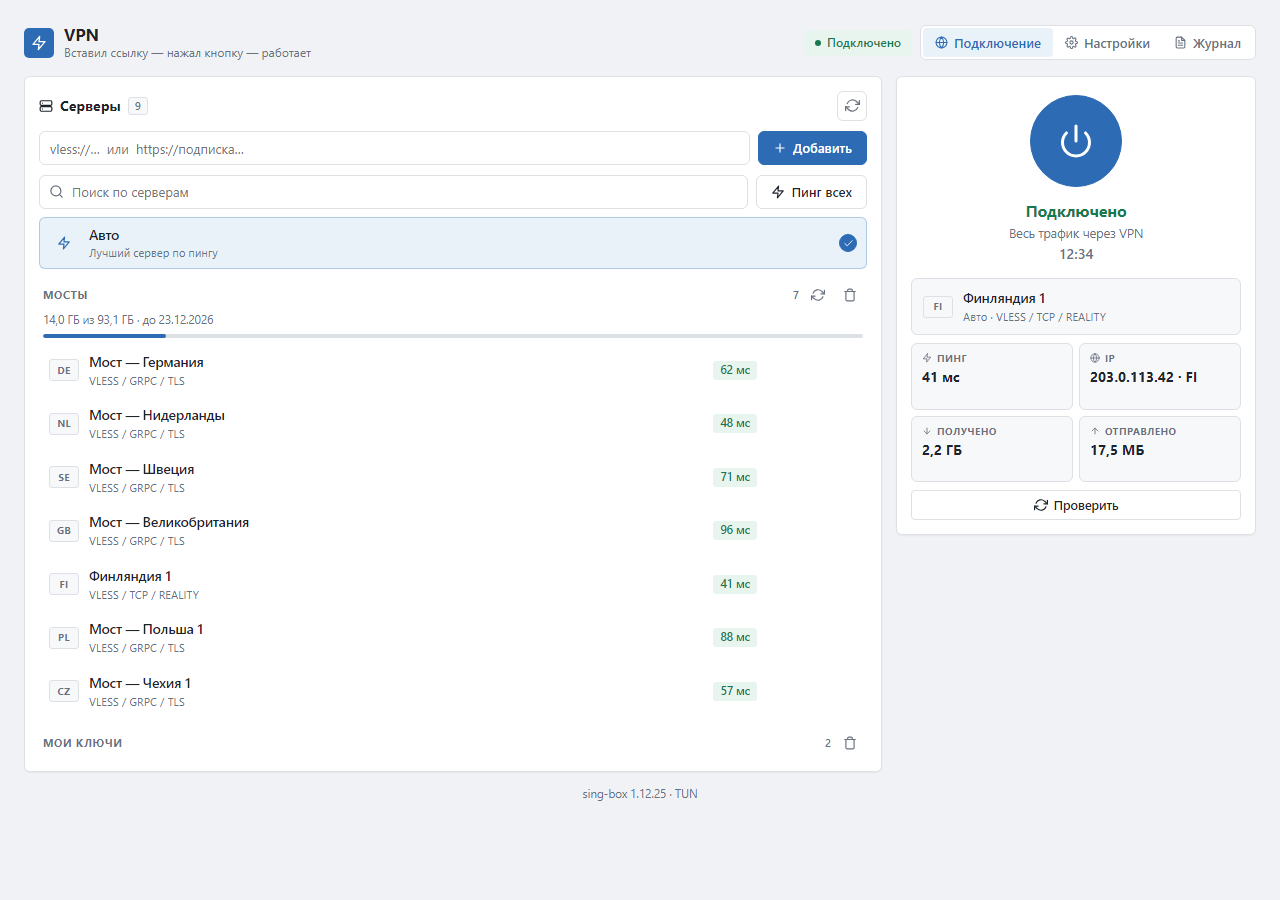
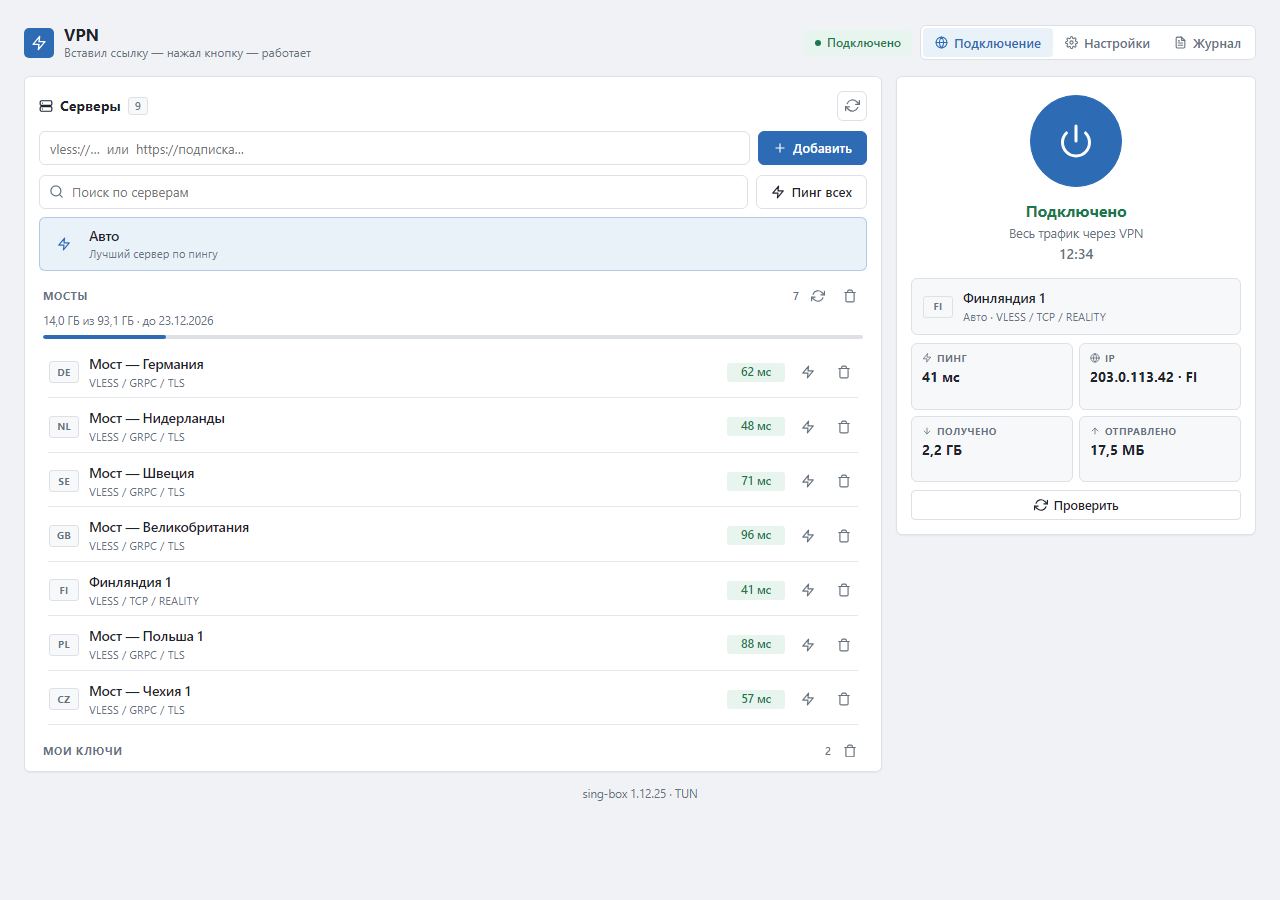
Версия 1.3.2
Переключение: дождаться освобождения vless0 перед стартом (кнопка не требует повторного нажатия). «Пинг всех»: замер по /proxies/s-<id>/delay, т.к. /group/auto/delay в sing-box 1.12+ не существует. Журнал прошлого сеанса отделён; шум штатного отключения не показывается как ошибка. Тест: мок api с правами на исполнение.

diff --git a/htdocs/luci-static/resources/view/vless/main.js b/htdocs/luci-static/resources/view/vless/main.js
@@ -133,23 +133,26 @@ var CSS = [
 '.hv-bar span{display:block;height:100%;background:var(--ac);border-radius:4px;transition:width .4s}',
 '.hv-bar.warn span{background:var(--warn)}.hv-bar.crit span{background:var(--bad)}',
 '.hv-bar.inf span{width:100%;background:var(--line)}',
-'.hv-row{display:flex;align-items:center;gap:10px;padding:7px 9px;border-radius:var(--r);cursor:pointer;border:1px solid transparent;transition:background .1s,border-color .1s;margin-bottom:1px;min-width:0;position:relative}',
+'.hv-row{display:flex;align-items:center;gap:10px;padding:8px 9px;border-radius:var(--r);cursor:pointer;border:1px solid transparent;transition:background .1s,border-color .1s;min-width:0;position:relative}',
+'.hv-row:after{content:"";position:absolute;left:8px;right:8px;bottom:0;height:1px;background:var(--line);opacity:.8;pointer-events:none}',
 '.hv-row:hover{background:var(--card2)}',
 '.hv-row.sel{background:var(--acs);border-color:rgba(45,108,181,.3)}',
+'.hv-row.sel:after,.hv-row.off:after{opacity:0}',
 '.hv-row.off{opacity:.5;cursor:not-allowed}',
 '.hv-fl{width:30px;height:22px;border-radius:3px;flex:none;display:flex;align-items:center;justify-content:center;font-size:10px;font-weight:700;letter-spacing:.03em;background:var(--card2);color:var(--tx2);border:1px solid var(--line)}',
 '.hv-fl.auto{background:var(--acs);color:var(--ac);border-color:transparent;font-size:14px}',
 '.hv-nm{flex:1;min-width:0;overflow:hidden}',
 '.hv-nm b{display:block;font-size:13.5px;font-weight:550;overflow:hidden;text-overflow:ellipsis;white-space:nowrap}',
 '.hv-nm span{display:block;font-size:11px;color:var(--tx2);letter-spacing:.01em;overflow:hidden;text-overflow:ellipsis;white-space:nowrap;margin-top:1px}',
-'.hv-ms{font-size:11.5px;font-weight:600;padding:1px 7px;border-radius:3px;background:var(--card2);color:var(--tx2);flex:none;font-variant-numeric:tabular-nums}',
+/* Значение пинга занимает фиксированную ширину всегда — иначе цифры «приезжают»
+   не с начала строки, а с середины, когда у части серверов замер ещё не готов. */
+'.hv-ms{font-size:11.5px;font-weight:600;padding:1px 7px;border-radius:3px;background:var(--card2);color:var(--tx2);flex:none;font-variant-numeric:tabular-nums;min-width:58px;height:19px;display:flex;align-items:center;justify-content:center}',
 '.hv-ms.g{color:var(--ok);background:var(--oks)}.hv-ms.y{color:var(--warn);background:var(--warns)}.hv-ms.r{color:var(--bad);background:var(--bads)}',
-'.hv-ck{width:18px;height:18px;border-radius:50%;border:1.5px solid transparent;flex:none;display:flex;align-items:center;justify-content:center;color:#fff;font-size:11px;transition:.1s}',
-'.hv-row.sel .hv-ck{background:var(--ac);border-color:var(--ac)}',
-'.hv-row:hover .hv-ck{border-color:var(--line)}',
-'.hv-x{opacity:0;transition:.1s;flex:none}',
-'.hv-row:hover .hv-x,.hv-row:focus-within .hv-x{opacity:1}',
-'@media(hover:none){.hv-x{opacity:1}}',
+'.hv-ms.none{background:none}',
+'.hv-ms.wait{background:none;position:relative;color:transparent}',
+'.hv-ms.wait:after{content:"";position:absolute;left:50%;top:50%;width:11px;height:11px;margin:-5.5px 0 0 -5.5px;border:1.5px solid var(--line);border-top-color:var(--ac);border-radius:50%;animation:hvspin .7s linear infinite}',
+/* Кнопки пинга и удаления видны всегда: наводить мышь ради второго действия не нужно */
+'.hv-x{flex:none}',
 '.hv-empty{text-align:center;padding:26px 10px;color:var(--tx2);font-size:13px}',
 '.hv-hero{text-align:center;padding:22px 10px 10px}',
 '.hv-hero>i{width:40px;height:40px;border-radius:var(--r);background:var(--card2);color:var(--tx2);font-size:20px;margin:0 auto 10px;border:1px solid var(--line)}',
@@ -488,6 +491,8 @@ return view.extend({
 		this.check = null;
 		this.search = '';
 		this.pinged = false;
+		this.pinging = false;   /* идёт «Пинг всех» — показываем крутилки у серверов */
+		this.pingOne = null;    /* id одиночного замера */
 		this.rate = { down: 0, up: 0 };
 		this._prev = null;
 		this._upSince = 0;
@@ -734,7 +739,8 @@ return view.extend({
 				list.appendChild(self.rowEl({
 					id: s.id, flagCode: g.f.code, name: g.f.name,
 					sub: s.supported ? self.metaOf(s) : (s.reason || 'не поддерживается'),
-					ms: (S.delays || {})[s.id], sel: selected === s.id, ok: s.supported, removable: true
+					ms: (S.delays || {})[s.id], sel: selected === s.id, ok: s.supported, removable: true,
+					wait: s.supported && (self.pinging || self.pingOne === s.id)
 				}));
 			});
 		});
@@ -778,7 +784,18 @@ return view.extend({
 			o.auto ? flagEl('', true) : flagEl(o.flagCode),
 			E('div', { 'class': 'hv-nm' }, [E('b', { title: o.name }, o.name), E('span', {}, o.sub)])
 		]);
-		if (typeof o.ms === 'number') row.appendChild(E('div', { 'class': 'hv-ms ' + msClass(o.ms) }, o.ms + ' мс'));
+		/* Пинг: крутилка, значение или пустое место той же ширины.
+		   Проверяем «измеряем» первым, чтобы при повторном замере показывалась
+		   анимация, а не устаревшее число. Кружок с галочкой убран — выбранный
+		   сервер и так выделяется синим. */
+		if (!o.auto) {
+			if (o.wait)
+				row.appendChild(E('div', { 'class': 'hv-ms wait', role: 'progressbar', 'aria-label': 'Измеряем задержку' }));
+			else if (typeof o.ms === 'number')
+				row.appendChild(E('div', { 'class': 'hv-ms ' + msClass(o.ms), title: 'Задержка до сервера' }, o.ms + ' мс'));
+			else
+				row.appendChild(E('div', { 'class': 'hv-ms none' }));
+		}
 		if (o.ok && !o.auto)
 			row.appendChild(E('button', {
 				type: 'button', 'class': 'hv-ibtn sm flat hv-x', title: 'Пинг этого сервера', 'aria-label': 'Пинг этого сервера',
@@ -789,7 +806,6 @@ return view.extend({
 				type: 'button', 'class': 'hv-ibtn sm flat dng hv-x', title: 'Удалить сервер', 'aria-label': 'Удалить сервер',
 				click: function (ev) { ev.stopPropagation(); self.doRemove(o.id, o.name, 'сервер'); }
 			}, [ic('trash')]));
-		row.appendChild(E('div', { 'class': 'hv-ck' }, o.sel ? [ic('check')] : []));
 		return row;
 	},
 
@@ -1051,9 +1067,12 @@ return view.extend({
 		if (this._pinging) return;
 		this._pinging = true;
 		this.pinged = true;
+		this.pinging = true;
+		this.drawList();                    /* крутилки появляются сразу, а не после ответа */
 		if (btn) { btn.disabled = true; btn.classList.add('spin'); btn.lastChild.textContent = 'Измеряю…'; }
 		var done = function () {
 			self._pinging = false;
+			self.pinging = false;
 			if (btn) { btn.disabled = false; btn.classList.remove('spin'); btn.lastChild.textContent = 'Пинг всех'; }
 		};
 		/* Если VPN не подключён — прямой пинг, иначе через VPN (точнее) */
@@ -1062,19 +1081,26 @@ return view.extend({
 			done();
 			if (r && r.delays) self.S.delays = r.delays;
 			if (manual) {
+				var n = r && r.delays ? Object.keys(r.delays).length : 0;
 				if (!r || !r.ok) self.toast((r && r.error) || 'Не удалось измерить пинг', true);
-				else self.toast(r.direct ? 'Пинг обновлён (прямой)' : 'Пинг обновлён');
+				else if (!n) self.toast('Ни один сервер не ответил', true);
+				else self.toast('Пинг обновлён: ' + n + ' ' + plural(n, 'сервер', 'сервера', 'серверов') + (r.direct ? ' (прямой)' : ''));
 			}
 			self.drawList();
 			self.updatePower();
-		}).catch(function () { done(); if (manual) self.toast('Роутер не ответил вовремя', true); });
+		}).catch(function () { done(); self.drawList(); if (manual) self.toast('Роутер не ответил вовремя', true); });
 	},
 
 	doPingOne: function (id, btn) {
 		var self = this;
 		if (!id) { this.toast('Сначала выберите сервер или подключитесь', true); return; }
+		this.pingOne = id;
+		this.drawList();
 		if (btn) { btn.classList.add('spin'); btn.disabled = true; }
-		var done = function () { if (btn) { btn.classList.remove('spin'); btn.disabled = false; } };
+		var done = function () {
+			self.pingOne = null;
+			if (btn) { btn.classList.remove('spin'); btn.disabled = false; }
+		};
 		var pingFn = (this.phase() === 'on') ? function () { return rPingOne(id); } : function () { return rPingOneDirect(id); };
 		withRetry(pingFn).then(function (r) {
 			done();
@@ -1083,7 +1109,7 @@ return view.extend({
 			else self.toast('Пинг: ' + r.ms + ' мс' + (r.direct ? ' (прямой)' : ''));
 			self.drawList();
 			self.updatePower();
-		}).catch(function () { done(); self.toast('Не удалось измерить пинг', true); });
+		}).catch(function () { done(); self.drawList(); self.toast('Не удалось измерить пинг', true); });
 	},
 
 	/* ───── опрос ───── */

diff --git a/tests/ui/shot.js b/tests/ui/shot.js
@@ -63,6 +63,36 @@ const text = (page) => page.evaluate(() => document.body.innerText);
   ok(errors.length === 0, 'нет ошибок в консоли ' + errors.join('; '));
   await page.context().close();
 
+  console.log('== пинг: анимация, кнопки, отсутствие кружка');
+  ({ page, errors } = await open(browser, 'connected'));
+  ok(await page.locator('.hv-ck').count() === 0, 'кружок с галочкой удалён');
+  const op = await page.locator('.hv-row').nth(2).locator('.hv-x').first()
+    .evaluate(e => getComputedStyle(e).opacity);
+  ok(parseFloat(op) === 1, 'кнопки пинга и удаления видны без наведения');
+  const widths = await page.locator('.hv-row .hv-ms').evaluateAll(
+    els => els.map(e => Math.round(e.getBoundingClientRect().width)));
+  ok(widths.length > 0 && new Set(widths).size === 1, 'колонка пинга одной ширины — цифры не прыгают');
+  await page.context().close();
+
+  // с задержкой на ответе видно анимацию замера
+  ({ page, errors } = await open(browser, 'connected', { lag: 2500 }));
+  await page.waitForTimeout(400);
+  const spin = await page.locator('.hv-ms.wait').count();
+  ok(spin === 8, `крутилка замера у всех живых серверов (${spin}/8)`);
+  await page.screenshot({ path: out + '/pinging.png' });
+  await page.waitForTimeout(3200);
+  ok(await page.locator('.hv-ms.wait').count() === 0, 'после замера крутилки исчезли');
+  ok(await page.locator('.hv-ms.g, .hv-ms.y, .hv-ms.r').count() === 8, 'пинги показаны у всех серверов');
+  await page.click('.hv-pingall');
+  await page.waitForTimeout(400);
+  ok(await page.locator('.hv-ms.wait').count() === 8, 'ручной «Пинг всех» тоже показывает крутилки');
+  await page.waitForTimeout(2600);
+  ok(/Пинг обновлён: 8 серверов/.test(await text(page)),
+     'тост сообщает, сколько серверов замерено, а не просто «обновлён»');
+  await page.screenshot({ path: out + '/pinged.png' });
+  ok(errors.length === 0, 'нет ошибок в консоли ' + errors.join('; '));
+  await page.context().close();
+
   console.log('== отключено / тёмная тема / подключение по кнопке');
   ({ page, errors } = await open(browser, 'off', { dark: true }));
   await page.screenshot({ path: out + '/off_dark.png' });
